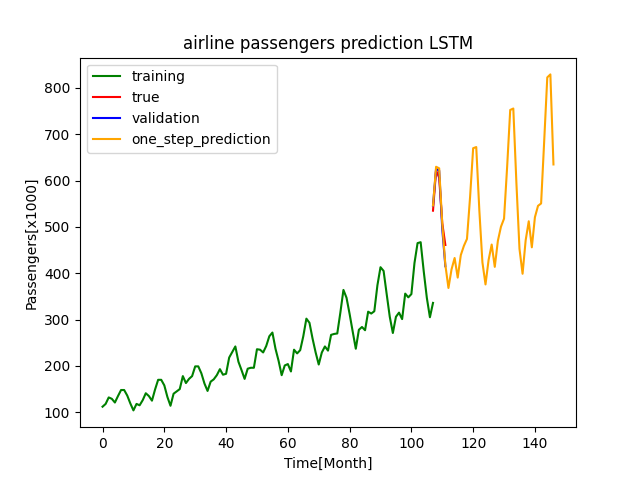
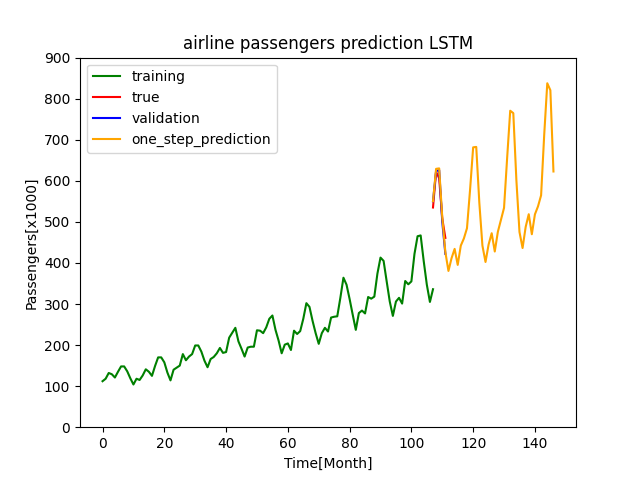
add name attributes and plot scaling to airline_passengers_keras_lstm

diff --git a/TimeSeriesPrediction/2_UnivariatTimeSeriesForecast/AirlinePassengers/Keras/LSTM/airline_passengers_keras_lstm.py b/TimeSeriesPrediction/2_UnivariatTimeSeriesForecast/AirlinePassengers/Keras/LSTM/airline_passengers_keras_lstm.py
@@ -50,8 +50,14 @@ def create_LSTM_model(inputs, targets, lookback):
     model.add(tf.keras.layers.LSTM(units=50,
                                    activation="tanh",
                                    recurrent_activation="sigmoid",
-                                   input_shape=(1, lookback)))
-    model.add(tf.keras.layers.Dense(units=1))
+                                   input_shape=(1, lookback),
+                                   kernel_initializer="glorot_uniform",
+                                   recurrent_initializer="orthogonal",
+                                   bias_initializer="zeros",
+                                   ))
+    model.add(tf.keras.layers.Dense(units=1,
+                                    kernel_initializer=tf.keras.initializers.RandomNormal(stddev=0.01),
+                                    bias_initializer=tf.keras.initializers.Zeros()))
     model.compile(optimizer=tf.keras.optimizers.Adam(0.0001), loss='mean_squared_error')
     model.fit(inputs, targets, epochs=1000, batch_size=1)
     return model
@@ -100,6 +106,8 @@ plt.plot(prediction["one_step_prediction"], color="orange", label="one_step_pred
 plt.title("airline passengers prediction LSTM")
 plt.xlabel("Time[Month]")
 plt.ylabel("Passengers[x1000]")
+plt.xticks(range(0, 150, 20))
+plt.yticks(range(0, 1000, 100))
 plt.legend(loc="upper left")
 plt.savefig("./airlinePassengers_keras_lstm.png")
 plt.show()
